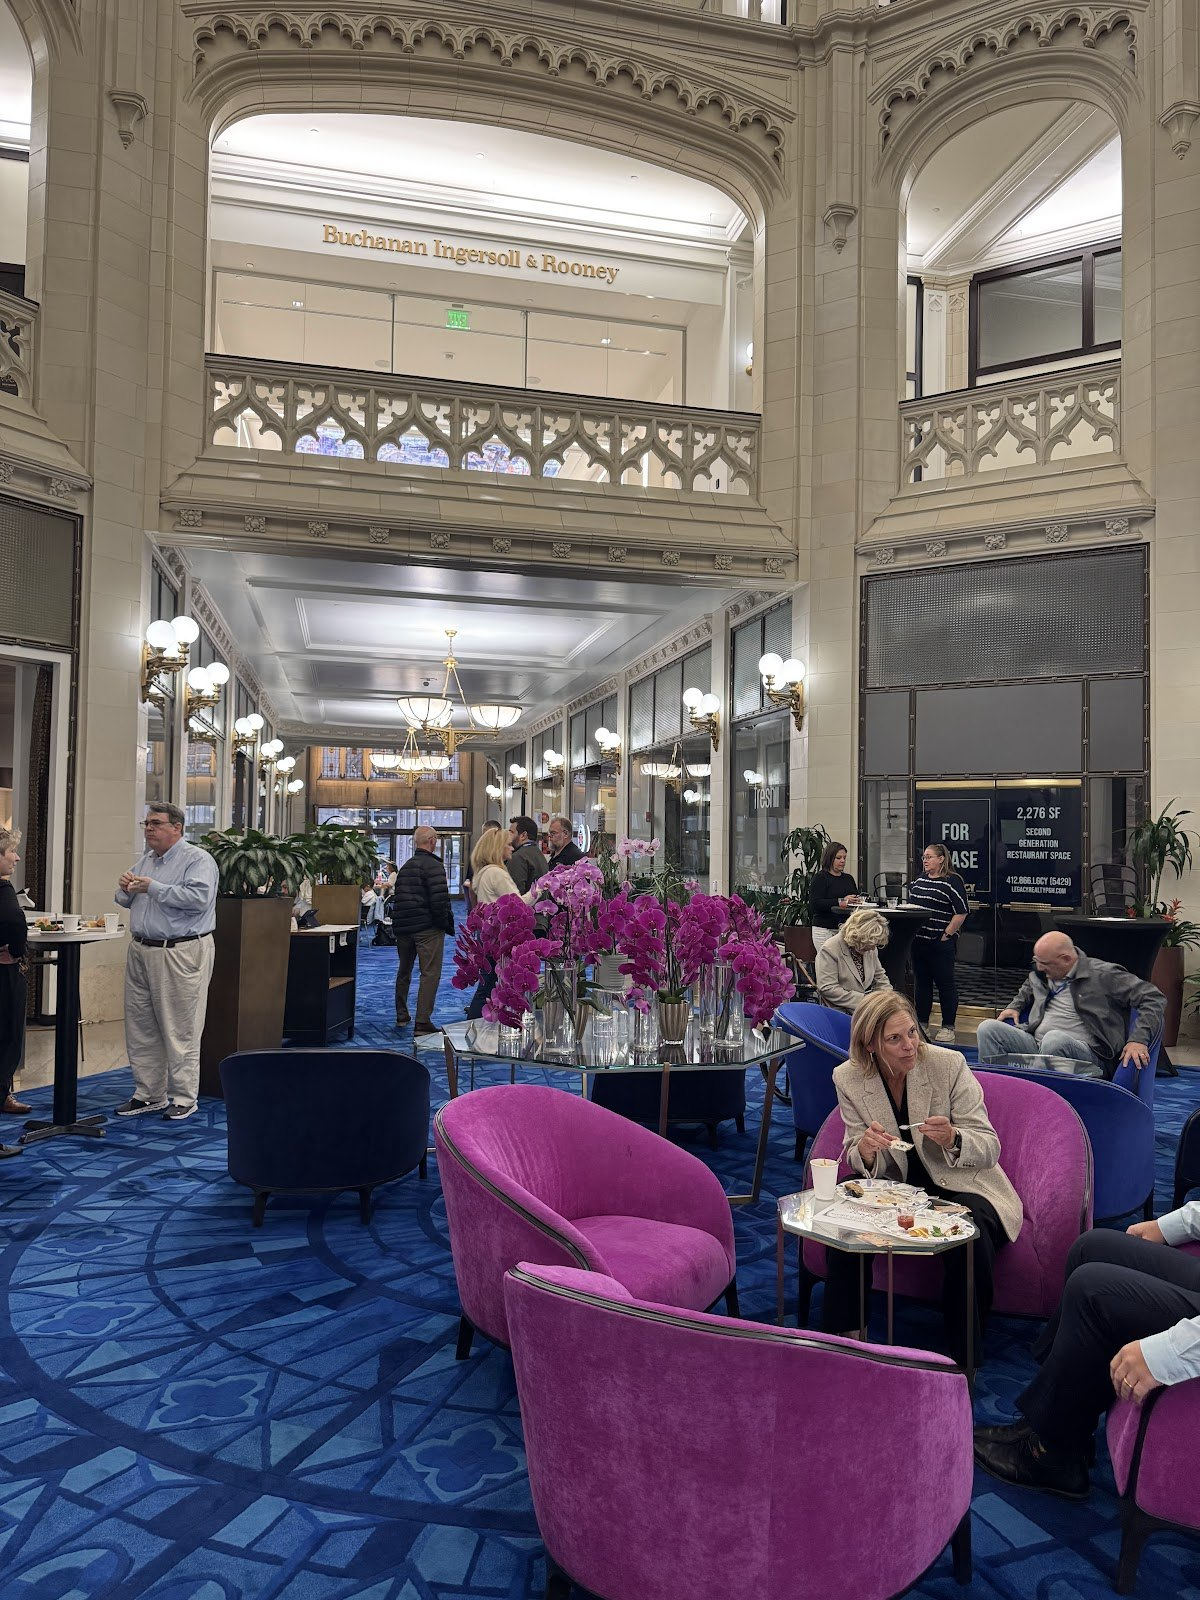
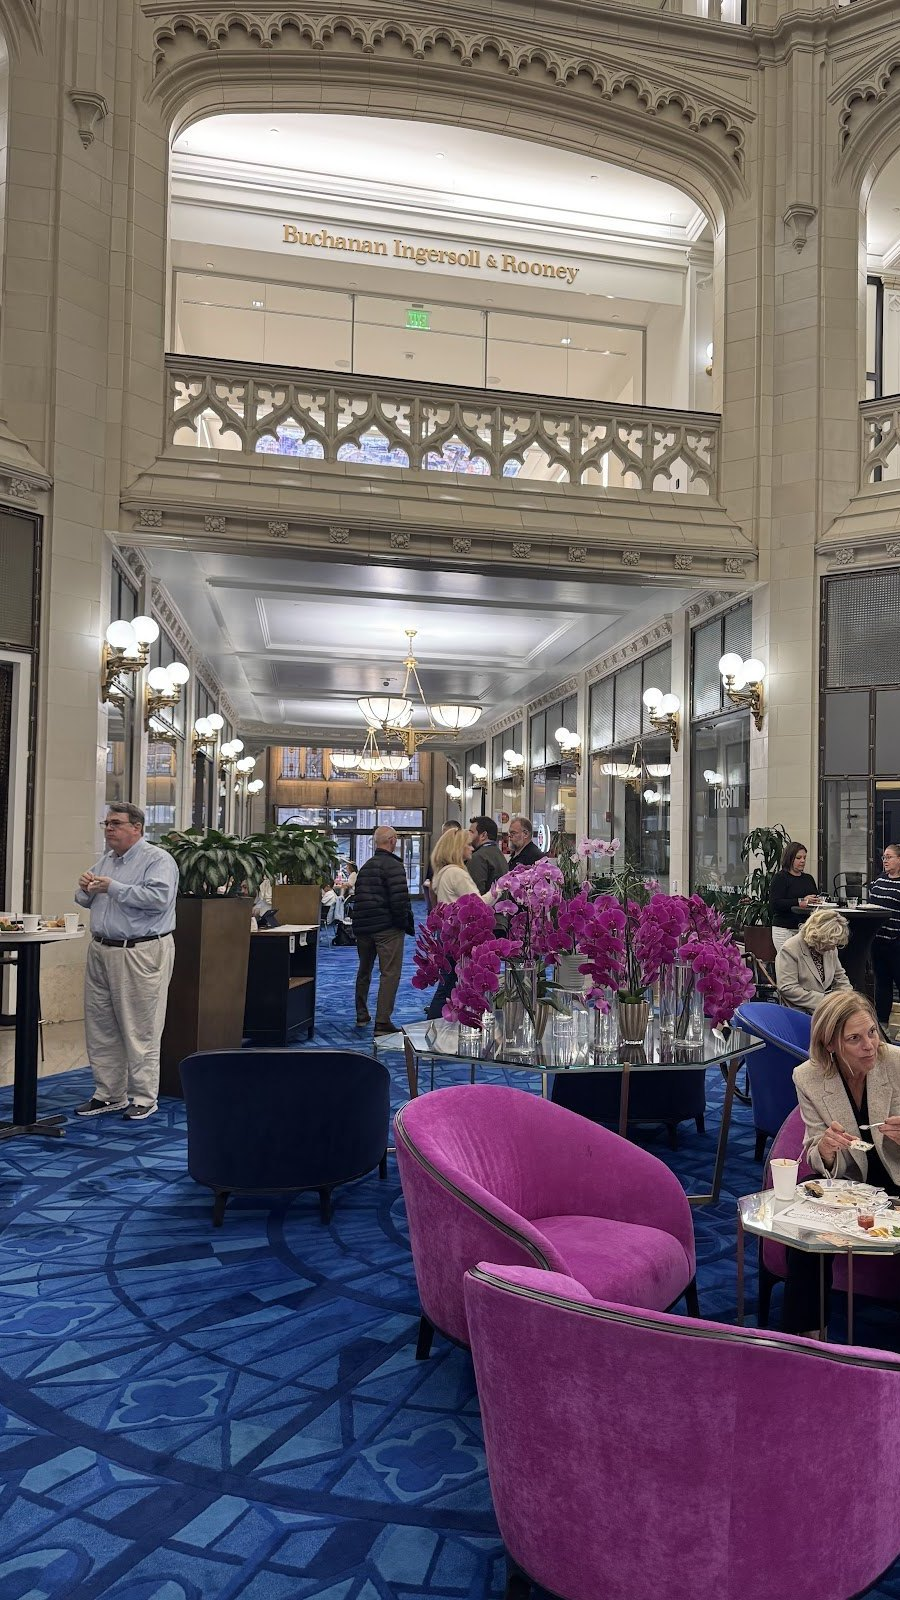
Union Trust batch: strategy, newsletter and report deliverables on the case study; pictures on both Union Trust posts
Case study: a 'The 2024 Plan' row of three strategy-deck pages under the Strategy list, the Fall 2024 cover, events page and Spring 2025 recap page with the Fall 2024 story in Workstream 3, and the 2024 Annual Review cover, its Facebook reach page, the October 2024 report cover and the 1K Followers story under Quarter by Quarter. Playbook post: the lobby from above over a story row of the details, the people (stored as a left-offset 9:16 crop that drops a broker's FOR LEASE graphic), the Make-A-Wish moment and the rotunda. Office-building post: a six-cover story row, one per series, captioned with the post's own view figures. Exports from the master Canva files. llms-full.txt, sitemap and dates follow.

Claude-Session: https://claude.ai/code/session_01BuaupkKchAW7EzjXaLCXsE

diff --git a/work/union-trust-building.html b/work/union-trust-building.html
@@ -64,7 +64,7 @@ j=d.createElement(s),dl=l!='dataLayer'?'&l='+l:'';j.async=true;j.src=
  "description": "How The Stoop ran Instagram and Facebook for the Union Trust Building, a historic downtown Pittsburgh office landmark: event coverage, a strategy audit, monthly reels, tenant newsletters and tenant app branding.",
  "image": "https://thestooppgh.com/assets/og/union-trust-building.jpg",
  "datePublished": "2026-09-24",
- "dateModified": "2026-09-25",
+ "dateModified": "2026-10-16",
  "author": {
   "@type": "Organization",
   "@id": "https://thestooppgh.com/#organization",
@@ -208,7 +208,7 @@ j=d.createElement(s),dl=l!='dataLayer'?'&l='+l:'';j.async=true;j.src=
   <div class="case-industry-label reveal">Commercial Real Estate &middot; Historic Landmark</div>
   <h1 class="reveal">UNION TRUST BUILDING</h1>
   <div class="case-tagline reveal">Social Media Management, Event Content &amp; Tenant Communications</div>
-  <p class="case-hero-desc reveal" style="margin-top:8px;">Author: <a href="https://www.linkedin.com/in/michaelpernice/" target="_blank" rel="noopener noreferrer" style="color:var(--yellow);text-decoration:none;">Mike Pernice</a>, Founder &middot; Last updated: September 2026</p>
+  <p class="case-hero-desc reveal" style="margin-top:8px;">Author: <a href="https://www.linkedin.com/in/michaelpernice/" target="_blank" rel="noopener noreferrer" style="color:var(--yellow);text-decoration:none;">Mike Pernice</a>, Founder &middot; Last updated: October 2026</p>
   <p class="case-hero-desc reveal">The Union Trust Building is a Flemish Gothic landmark at 501 Grant Street in downtown Pittsburgh, redeveloped by The Davis Companies into Class-A offices with restaurants, a tenant gym, and a 10th-floor theatre. From October 2023 into 2025, The Stoop ran its Instagram and Facebook: tenant event coverage, a social media audit, and monthly reels and stories. We also produced the quarterly tenant newsletter and branded the building&rsquo;s tenant app.</p>
   <div class="case-tags reveal">
     <span class="case-tag">Organic Social</span>
@@ -266,6 +266,15 @@ j=d.createElement(s),dl=l!='dataLayer'?'&l='+l:'';j.async=true;j.src=
     <li>Use both accounts as an information hub for tenants: events, amenities, and building news</li>
     <li>Report quarterly on reach, interactions, and follower growth</li>
   </ul>
+</div>
+<div class="reveal" style="max-width:1100px; margin:32px auto 0; padding:0 24px;">
+<h3 class="reveal" style="font-size:13px; letter-spacing:2px; text-transform:uppercase; text-align:center; margin:8px auto 0; padding:0 24px;">The 2024 Plan</h3>
+<p class="reveal" style="text-align:center; max-width:760px; margin:12px auto 0; padding:0 24px; font-size:14px; line-height:1.7; color:var(--mid);">Three pages from the Social Media Analysis &amp; Strategy deck that set the year: the cover, the analysis overview and the 2024 goals.</p>
+<div class="cs-media reveal cs-media--wide">
+<a class="cs-tile" href="../assets/images/work/union-trust-building/strategy-cover.jpg"><img alt="Union Trust Building 2024 Social Media Analysis &amp; Strategy deck cover with the building&#x27;s gold spire logo on a charcoal field of ghosted repeating type." decoding="async" loading="lazy" src="../assets/images/work/union-trust-building/thumbs/strategy-cover.webp"><span class="cs-tile-cap">Cover</span></a>
+<a class="cs-tile" href="../assets/images/work/union-trust-building/strategy-analysis-overview.jpg"><img alt="Analysis Overview page laying out objective, scope and summary of findings in three columns, recommending Instagram Reels for engagement and Facebook for reach." decoding="async" loading="lazy" src="../assets/images/work/union-trust-building/thumbs/strategy-analysis-overview.webp"><span class="cs-tile-cap">Analysis Overview</span></a>
+<a class="cs-tile" href="../assets/images/work/union-trust-building/strategy-2024-goals.jpg"><img alt="2024 Goals &amp; Objectives page with a three-column table of goals, objectives and KPIs for consistent presence, regional audience growth and a dual-platform strategy." decoding="async" loading="lazy" src="../assets/images/work/union-trust-building/thumbs/strategy-2024-goals.webp"><span class="cs-tile-cap">2024 Goals &amp; Objectives</span></a>
+</div>
 </div>
 
 <!-- WORKSTREAM 1: EVENT COVERAGE -->
@@ -359,6 +368,17 @@ j=d.createElement(s),dl=l!='dataLayer'?'&l='+l:'';j.async=true;j.src=
 <div class="cs-stats reveal"><div class="cs-stat"><div class="cs-stat-val">3</div><div class="cs-stat-label">Quarterly Issues</div></div><div class="cs-stat"><div class="cs-stat-val">10</div><div class="cs-stat-label">Pages in the Fall 2024 Issue</div></div></div>
 <p class="cs-meta reveal">Fall 2024 &middot; Winter 2025 &middot; Spring 2025 &middot; Event Recaps &middot; Building News</p>
 <p class="reveal" style="text-align:center; max-width:760px; margin:0 auto 32px; padding:0 24px; font-size:15px; line-height:1.8; color:var(--mid);">From fall 2024 we also produced the building&rsquo;s quarterly tenant newsletter, and it ran with the social calendar as one loop: each issue announced the coming season&rsquo;s events, recapped the last season&rsquo;s, and ran building features such as the restored chapel roof, the Pittsburgh History &amp; Landmarks Foundation&rsquo;s new vault panels, and the valet team. The recaps carried the outcomes tenants cared about: Quantum Theatre sold 2,101 tickets for its month-long run in the building&rsquo;s theatre, and the March 2025 blood drive collected 19 donations, enough to help 57 local lives. Every issue sent readers back to the building&rsquo;s Instagram and Facebook.</p>
+<div class="reveal" style="max-width:1100px; margin:32px auto 0; padding:0 24px;">
+<div class="cs-media reveal cs-media--tall" style="grid-template-columns:repeat(auto-fit, minmax(190px, 300px)); justify-content:center;">
+<a class="cs-tile" href="../assets/images/work/union-trust-building/newsletter-fall-2024-cover.jpg"><img alt="Fall 2024 Tenant Newsletter cover centers the gold Union Trust Building spire mark and title over darkened tiers of atrium balconies." decoding="async" loading="lazy" src="../assets/images/work/union-trust-building/thumbs/newsletter-fall-2024-cover.webp"><span class="cs-tile-cap">Fall 2024 Cover</span></a>
+<a class="cs-tile" href="../assets/images/work/union-trust-building/newsletter-fall-2024-events.jpg"><img alt="Upcoming Tenant Events page lists a lobby Maker&#x27;s Market and a Holiday Happy Hour, with book and herbal body-care vendor displays and a fedora-wearing violinist." decoding="async" loading="lazy" src="../assets/images/work/union-trust-building/thumbs/newsletter-fall-2024-events.webp"><span class="cs-tile-cap">Fall 2024 Events Page</span></a>
+<a class="cs-tile" href="../assets/images/work/union-trust-building/newsletter-spring-2025-recap.jpg"><img alt="Winter 2025 Tenant Events Recap page arranges six snapshots from a blood drive, a Valentine&#x27;s flower stand, a happy hour toast and Trivia Day over pale snowflakes." decoding="async" loading="lazy" src="../assets/images/work/union-trust-building/thumbs/newsletter-spring-2025-recap.webp"><span class="cs-tile-cap">Spring 2025 Events Recap</span></a>
+</div>
+<p class="reveal" style="text-align:center; max-width:760px; margin:12px auto 0; padding:0 24px; font-size:14px; line-height:1.7; color:var(--mid);">Each issue was announced on the building&rsquo;s stories as well.</p>
+<div class="cs-media reveal cs-media--story" style="grid-template-columns:minmax(0, 240px); justify-content:center;">
+<a class="cs-tile" href="../assets/images/work/union-trust-building/story-fall-2024-newsletter.jpg"><img alt="Vertical Fall 2024 Tenant Newsletter story sets the title over the Union Trust Building&#x27;s lit Gothic facade at dusk with the Davis logo below." decoding="async" loading="lazy" src="../assets/images/work/union-trust-building/thumbs/story-fall-2024-newsletter.webp"><span class="cs-tile-cap">Fall 2024 Issue Story</span></a>
+</div>
+</div>
 <div class="reveal" style="text-align:center; max-width:600px; margin:48px auto 0; padding:0 24px;">
 <p style="font-size:14px; color:var(--mid); margin-bottom:20px; line-height:1.7;">Need tenant or member communications that people read?</p>
 <a class="btn btn-primary" href="/contact?service=design-branding">Talk to Us</a>
@@ -434,6 +454,15 @@ j=d.createElement(s),dl=l!='dataLayer'?'&l='+l:'';j.async=true;j.src=
 <li>Q2 2024 &mdash; 12,700 Facebook impressions, up from 12,100 in Q1</li>
 <li>Dec 2023 &ndash; Mar 2025 &mdash; 49,738 Instagram and 14,111 Facebook views logged across 219 posts and stories</li>
 </ul>
+<p class="reveal" style="text-align:center; max-width:760px; margin:32px auto 0; padding:0 24px; font-size:14px; line-height:1.7; color:var(--mid);">The reporting behind the numbers: the 2024 Annual Analytical Review and its Facebook reach page, the October 2024 report that covered Taste of UTB and the Caligari opening, and the story that marked 1,000 Instagram followers.</p>
+<div class="cs-media reveal cs-media--wide">
+<a class="cs-tile" href="../assets/images/work/union-trust-building/annual-review-2024-cover.jpg"><img alt="Dark grey report cover with the Union Trust Building logo at left and a bold yellow and white title reading 2024 Annual Analytical Review." decoding="async" loading="lazy" src="../assets/images/work/union-trust-building/thumbs/annual-review-2024-cover.webp"><span class="cs-tile-cap">2024 Annual Review</span></a>
+<a class="cs-tile" href="../assets/images/work/union-trust-building/annual-review-2024-facebook-reach.jpg"><img alt="Report page titled Accounts Reached pairs a key-takeaway bullet with a two-bar chart comparing 2023 and 2024 Facebook reach for the Union Trust Building." decoding="async" loading="lazy" src="../assets/images/work/union-trust-building/thumbs/annual-review-2024-facebook-reach.webp"><span class="cs-tile-cap">Facebook Accounts Reached, 2024</span></a>
+<a class="cs-tile" href="../assets/images/work/union-trust-building/analytics-oct-2024-cover.jpg"><img alt="Dark grey report cover with the Union Trust Building logo at left and a bold yellow and white title reading October Analytics 2024." decoding="async" loading="lazy" src="../assets/images/work/union-trust-building/thumbs/analytics-oct-2024-cover.webp"><span class="cs-tile-cap">October 2024 Report</span></a>
+</div>
+<div class="cs-media reveal cs-media--story" style="grid-template-columns:minmax(0, 240px); justify-content:center;">
+<a class="cs-tile" href="../assets/images/work/union-trust-building/story-1k-followers.jpg"><img alt="Instagram story announcing a 1,000 Followers Giveaway over a brown tote basket of prizes in front of the Union Trust Building blue and gold mosaic logo wall." decoding="async" loading="lazy" src="../assets/images/work/union-trust-building/thumbs/story-1k-followers.webp"><span class="cs-tile-cap">1K Followers Giveaway</span></a>
+</div>
 <p class="reveal" style="text-align:center; max-width:760px; margin:40px auto 24px; padding:0; font-size:15px; line-height:1.8; color:var(--mid);">The full year held up. In 2024, the first full year of monthly management, Instagram reached 16,600 accounts, up from 4,200 in 2023, and drew 24,100 views, up from 6,100. Content interactions rose from 255 to 1,000 on Instagram and from 218 to 1,500 on Facebook, where reach grew from 8,000 to 11,600 accounts. Instagram followers grew from 821 at the end of 2023 to 1,057 at the end of 2024, up 29%. The Stoop took over in October 2023, so the 2023 figures already include its first three months.</p>
 <h3 class="reveal" style="font-size:13px; letter-spacing:2px; text-transform:uppercase; margin-bottom:12px;">2024 vs. 2023</h3>
 <ul class="reveal cs-list">

diff --git a/blog/social-media-historic-office-building.html b/blog/social-media-historic-office-building.html
@@ -67,7 +67,7 @@ j=d.createElement(s),dl=l!='dataLayer'?'&l='+l:'';j.async=true;j.src=
  "description": "How recurring Instagram series about the building, its staff and its tenants grew followers 22% and quarterly reach 2.6x for Pittsburgh’s Union Trust Building.",
  "image": "https://thestooppgh.com/assets/og/social-media-historic-office-building.png",
  "datePublished": "2026-09-24",
- "dateModified": "2026-09-24",
+ "dateModified": "2026-10-16",
  "author": {
   "@type": "Person",
   "@id": "https://thestooppgh.com/founder.html#person",
@@ -196,6 +196,14 @@ j=d.createElement(s),dl=l!='dataLayer'?'&l='+l:'';j.async=true;j.src=
     <li><strong>Building highlights.</strong> The dome, the stained glass, the 10th-floor theatre, the art program, even the lobby carpet designed to echo the dome</li>
     <li><strong>Restaurant collaborations.</strong> National Cocktail Day with the building&rsquo;s restaurants as Instagram collaborators, National Pancake Day, and other food holidays</li>
   </ul>
+  <div class="cs-media reveal cs-media--story" style="grid-template-columns:repeat(auto-fit, minmax(190px, 1fr));">
+    <a class="cs-tile" href="../assets/images/work/union-trust-building/story-fascinating-history-frick.jpg"><img src="../assets/images/work/union-trust-building/thumbs/story-fascinating-history-frick.webp" alt="Archival black-and-white portrait, Henry Clay Frick in suit and bow tie, fills the frame; a bold white caption says he bought this land for $100,000 in 1914." loading="lazy" decoding="async"><span class="cs-tile-cap">History</span></a>
+    <a class="cs-tile" href="../assets/images/work/union-trust-building/story-ditl-part-1.jpg"><img src="../assets/images/work/union-trust-building/thumbs/story-ditl-part-1.webp" alt="Oversized black serif Q and A with a gold ampersand overlay the Union Trust Building&#x27;s stained-glass rotunda dome, seen from directly below." loading="lazy" decoding="async"><span class="cs-tile-cap">Day in the Life, Part 1 &middot; 2,155 views</span></a>
+    <a class="cs-tile" href="../assets/images/work/union-trust-building/story-staff-spotlight-engineer.jpg"><img src="../assets/images/work/union-trust-building/thumbs/story-staff-spotlight-engineer.webp" alt="Dark crumpled-paper staff spotlight card pairs a chief engineer in a blue work shirt with his name in gold and white and the Union Trust Building and Davis logos." loading="lazy" decoding="async"><span class="cs-tile-cap">Meet the Staff &middot; 2,500 views</span></a>
+    <a class="cs-tile" href="../assets/images/work/union-trust-building/story-tenant-testimonial.jpg"><img src="../assets/images/work/union-trust-building/thumbs/story-tenant-testimonial.webp" alt="Dark crumpled-paper testimonial card names a tenant accounting firm above two people flanking its backlit gold wall sign, with Davis and Union Trust Building logos." loading="lazy" decoding="async"><span class="cs-tile-cap">Tenant Testimonials</span></a>
+    <a class="cs-tile" href="../assets/images/work/union-trust-building/story-private-theater.jpg"><img src="../assets/images/work/union-trust-building/thumbs/story-private-theater.webp" alt="Red seats under a coffered ceiling, chandeliers and stained-glass balcony windows, captioned Henry Clay Frick&#x27;s Private Theater, with the Union Trust Building logo." loading="lazy" decoding="async"><span class="cs-tile-cap">Building Highlights</span></a>
+    <a class="cs-tile" href="../assets/images/work/union-trust-building/story-national-cocktail-day.jpg"><img src="../assets/images/work/union-trust-building/thumbs/story-national-cocktail-day.webp" alt="A hand pours into a ribbed coupe of purple cocktail with an orange twist beneath white National Cocktail Day text for the Union Trust Building&#x27;s four restaurants." loading="lazy" decoding="async"><span class="cs-tile-cap">Restaurant Collaborations</span></a>
+  </div>
 
   <h2 class="reveal">Events, Covered the Same Week</h2>
   <p class="reveal">Tenant events stayed on the calendar, just not as the whole calendar. Each came with a set package: one to two hours on site, two reels, and five stories, with the first story posted live. Over the engagement we covered 15+ events, from happy hours and makers markets to a Taste of UTB tasting with five restaurants and a Make-A-Wish fundraiser with BNY Mellon that closed at more than $8,000 raised. We wrote the full event process up separately in <a href="tenant-event-content-playbook.html">the tenant event content playbook</a>.</p>

diff --git a/blog/tenant-event-content-playbook.html b/blog/tenant-event-content-playbook.html
@@ -67,7 +67,7 @@ j=d.createElement(s),dl=l!='dataLayer'?'&l='+l:'';j.async=true;j.src=
  "description": "How to turn every tenant event into two reels, five stories, and a newsletter recap, with the schedule and shot list we use at the Union Trust Building.",
  "image": "https://thestooppgh.com/assets/og/tenant-event-content-playbook.png",
  "datePublished": "2026-09-24",
- "dateModified": "2026-09-24",
+ "dateModified": "2026-10-16",
  "author": {
   "@type": "Person",
   "@id": "https://thestooppgh.com/founder.html#person",
@@ -189,6 +189,15 @@ j=d.createElement(s),dl=l!='dataLayer'?'&l='+l:'';j.async=true;j.src=
     <li><strong>The moment.</strong> The raffle draw, the check presentation, the fundraising total. At the Make-A-Wish fundraiser with BNY Mellon, the recap reel ended on the number: more than $8,000 raised against a $5,000 goal</li>
     <li><strong>The building.</strong> The dome, the marquee, the architecture behind the crowd. It is what makes the event look like it could only happen there</li>
   </ul>
+  <div class="cs-media reveal cs-media--wide" style="grid-template-columns:minmax(0, 1fr);">
+    <a class="cs-tile" href="../assets/images/drive/13LX0T1s2vjQske7a3Tjvv60-Mv2GTZMk.jpg"><img src="../assets/images/drive/thumbs/13LX0T1s2vjQske7a3Tjvv60-Mv2GTZMk.webp" alt="Guests eat in magenta and blue velvet chairs around a tower of magenta orchids on the Union Trust Building&#x27;s patterned blue carpet, seen from the mezzanine above." loading="lazy" decoding="async"><span class="cs-tile-cap">The Room From Above</span></a>
+  </div>
+  <div class="cs-media reveal cs-media--story">
+    <a class="cs-tile" href="../assets/images/drive/10mJ8lZ18lHQQh3mJCfroZ_vJvuV3Jt2G.jpg"><img src="../assets/images/drive/thumbs/10mJ8lZ18lHQQh3mJCfroZ_vJvuV3Jt2G.webp" alt="A striped Millie&#x27;s cup of ice cream with caramel drizzle sits on a mirrored table among tall glass vases of magenta orchids in the Union Trust Building lobby." loading="lazy" decoding="async"><span class="cs-tile-cap">The Details</span></a>
+    <a class="cs-tile" href="../assets/images/drive/1rx3TDF-3cvj9bU3FkOPYO_dMtNBW-_DQ.jpg"><img src="../assets/images/drive/thumbs/1rx3TDF-3cvj9bU3FkOPYO_dMtNBW-_DQ.webp" alt="Tenants with plates stand and sit among magenta velvet chairs and orchids under the Union Trust Building&#x27;s Gothic stone arcade and globe lamps." loading="lazy" decoding="async"><span class="cs-tile-cap">The People</span></a>
+    <a class="cs-tile" href="../assets/images/work/union-trust-building/story-make-a-wish.jpg"><img src="../assets/images/work/union-trust-building/thumbs/story-make-a-wish.webp" alt="Story tile: six adults pose beside a hand-drawn fundraising thermometer at the Union Trust Building mosaic wall, with a caption announcing the Make-A-Wish total." loading="lazy" decoding="async"><span class="cs-tile-cap">The Moment</span></a>
+    <a class="cs-tile" href="../assets/images/drive/1q2B8BiItdKbm3vVIxz4IrKKM2Aq0ysa4.jpg"><img src="../assets/images/drive/thumbs/1q2B8BiItdKbm3vVIxz4IrKKM2Aq0ysa4.webp" alt="Tiers of white Gothic balconies rise to the stained-glass skylight of the Union Trust Building rotunda, with guests gathered by the mosaic logo wall below." loading="lazy" decoding="async"><span class="cs-tile-cap">The Building</span></a>
+  </div>
 
   <h2 class="reveal">3. The Package: Two Reels, Five Stories</h2>
   <p class="reveal">Every event came with the same deliverable, so management always knew what to expect and when. The schedule we used for events in 2023:</p>
